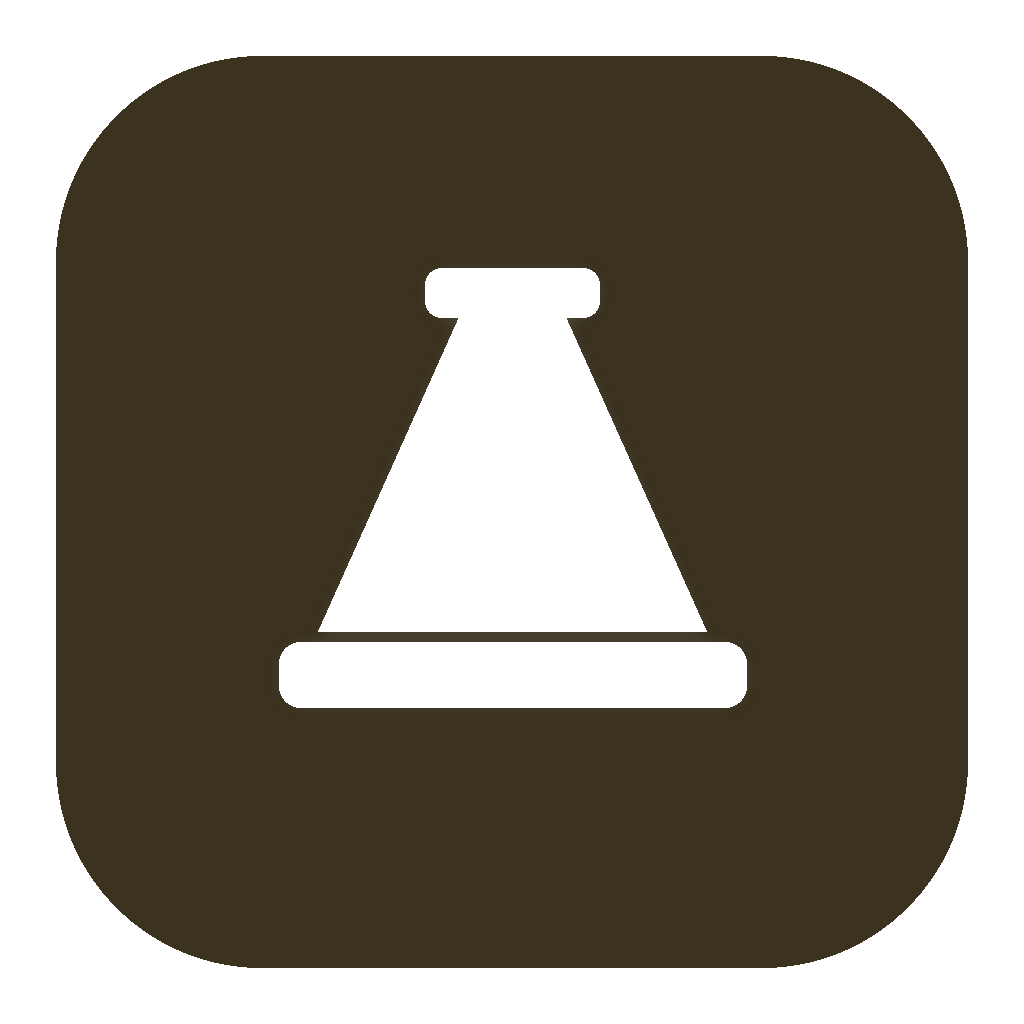
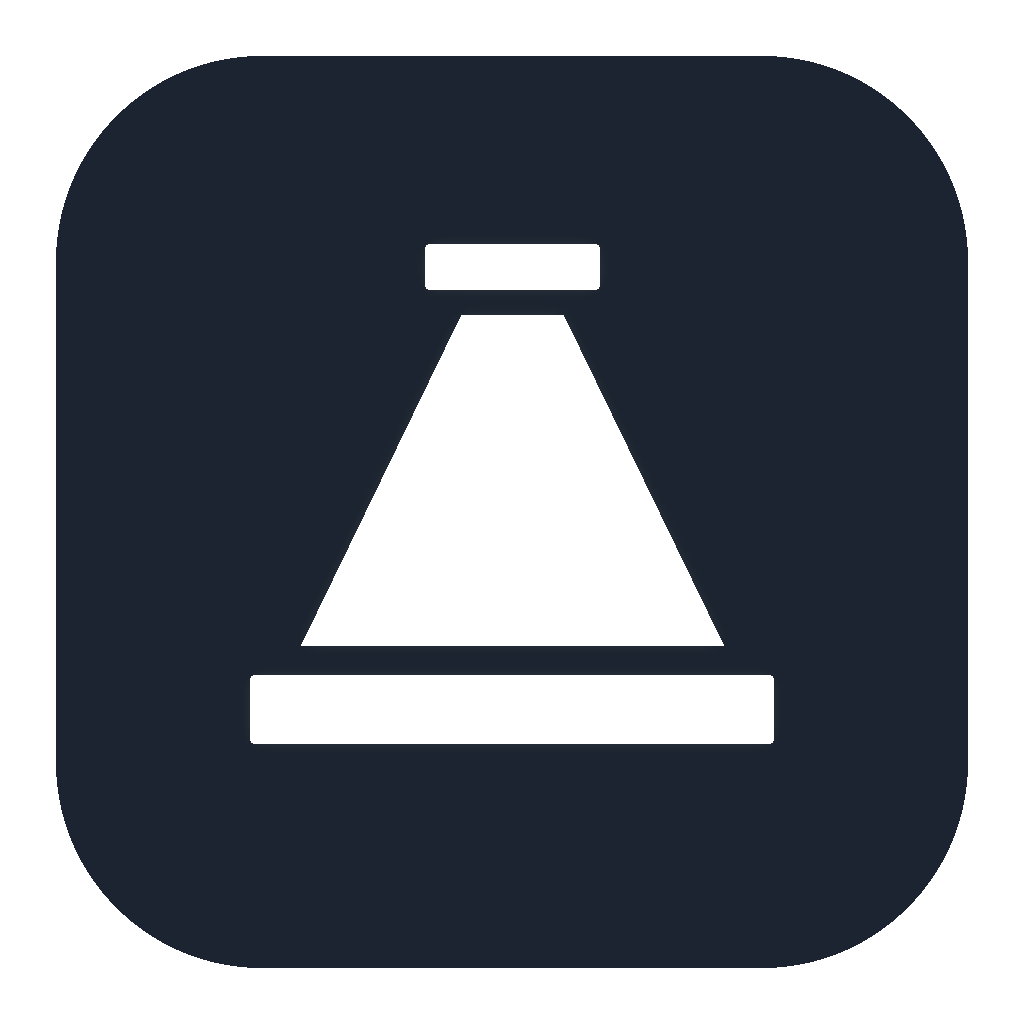
Redraw the mark: the beam disperses into the spectrum on the desk rail

diff --git a/LumenDesk/Theme.swift b/LumenDesk/Theme.swift
@@ -518,8 +518,9 @@ struct LumenDangerButtonStyle: ButtonStyle {
 
 // MARK: - Wordmark
 
-/// A beam enters a prism and leaves as the spectrum, landing on the desk rail.
-/// The mark is the product's thesis: one input, every colour, one surface.
+/// Light leaves the aperture white and lands on the desk rail as the full
+/// visible spectrum. The mark is the product's thesis: one input, every
+/// colour, one control surface.
 struct LumenMark: View {
     var size: CGFloat = 30
     var monochrome = false
@@ -529,56 +530,54 @@ struct LumenMark: View {
             let w = proxy.size.width
             let h = proxy.size.height
             ZStack {
-                // Incoming beam, entering the prism from the upper left.
-                Path { path in
-                    path.move(to: CGPoint(x: w * 0.04, y: h * 0.235))
-                    path.addLine(to: CGPoint(x: w * 0.40, y: h * 0.235))
-                    path.addLine(to: CGPoint(x: w * 0.40, y: h * 0.325))
-                    path.addLine(to: CGPoint(x: w * 0.04, y: h * 0.325))
-                    path.closeSubpath()
-                }
-                .fill(monochrome ? Color.primary : Lumen.beamBright)
+                // The source slot.
+                RoundedRectangle(cornerRadius: h * 0.02, style: .continuous)
+                    .fill(monochrome ? Color.primary : Lumen.beamBright)
+                    .frame(width: w * 0.24, height: h * 0.062)
+                    .position(x: w * 0.5, y: h * 0.178)
 
-                // The prism.
-                Path { path in
-                    path.move(to: CGPoint(x: w * 0.50, y: h * 0.09))
-                    path.addLine(to: CGPoint(x: w * 0.83, y: h * 0.62))
-                    path.addLine(to: CGPoint(x: w * 0.17, y: h * 0.62))
-                    path.closeSubpath()
-                }
-                .fill(monochrome ? AnyShapeStyle(Color.primary.opacity(0.32))
-                                 : AnyShapeStyle(Color(hex: 0xFFFFFF, alpha: 0.10)))
-                .overlay {
-                    Path { path in
-                        path.move(to: CGPoint(x: w * 0.50, y: h * 0.09))
-                        path.addLine(to: CGPoint(x: w * 0.83, y: h * 0.62))
-                        path.addLine(to: CGPoint(x: w * 0.17, y: h * 0.62))
-                        path.closeSubpath()
+                // The beam, dispersing as it falls.
+                LumenBeamShape()
+                    .fill(monochrome ? AnyShapeStyle(Color.primary) : AnyShapeStyle(Lumen.spectrum))
+                    .overlay {
+                        if !monochrome {
+                            LumenBeamShape()
+                                .fill(
+                                    LinearGradient(
+                                        stops: [
+                                            .init(color: Lumen.beamBright, location: 0),
+                                            .init(color: Lumen.beamBright, location: 0.12),
+                                            .init(color: Lumen.beamBright.opacity(0), location: 0.86)
+                                        ],
+                                        startPoint: .top,
+                                        endPoint: .bottom
+                                    )
+                                )
+                        }
                     }
-                    .stroke(monochrome ? Color.primary : Lumen.beam, lineWidth: max(1, h * 0.045))
-                }
-
-                // Dispersion: the fan of light leaving the prism.
-                if !monochrome {
-                    Path { path in
-                        path.move(to: CGPoint(x: w * 0.46, y: h * 0.62))
-                        path.addLine(to: CGPoint(x: w * 0.86, y: h * 0.62))
-                        path.addLine(to: CGPoint(x: w * 0.97, y: h * 0.80))
-                        path.addLine(to: CGPoint(x: w * 0.30, y: h * 0.80))
-                        path.closeSubpath()
-                    }
-                    .fill(Lumen.spectrum)
-                }
 
                 // The desk rail.
                 RoundedRectangle(cornerRadius: h * 0.02, style: .continuous)
                     .fill(monochrome ? Color.primary : Lumen.textPrimary)
-                    .frame(width: w * 0.86, height: h * 0.10)
-                    .position(x: w * 0.5, y: h * 0.86)
+                    .frame(width: w * 0.727, height: h * 0.094)
+                    .position(x: w * 0.5, y: h * 0.79)
             }
         }
         .frame(width: size, height: size)
         .accessibilityHidden(true)
+    }
+}
+
+/// The tapered beam, in the mark's own proportions.
+private struct LumenBeamShape: Shape {
+    func path(in rect: CGRect) -> Path {
+        var path = Path()
+        path.move(to: CGPoint(x: rect.minX + rect.width * 0.430, y: rect.minY + rect.height * 0.244))
+        path.addLine(to: CGPoint(x: rect.minX + rect.width * 0.570, y: rect.minY + rect.height * 0.244))
+        path.addLine(to: CGPoint(x: rect.minX + rect.width * 0.793, y: rect.minY + rect.height * 0.703))
+        path.addLine(to: CGPoint(x: rect.minX + rect.width * 0.207, y: rect.minY + rect.height * 0.703))
+        path.closeSubpath()
+        return path
     }
 }
 

diff --git a/scripts/generate_brand_assets.py b/scripts/generate_brand_assets.py
@@ -1,5 +1,10 @@
 #!/usr/bin/env python3
-"""Generate the LumenDesk Lighting Desk app-icon family.
+"""Generate the LumenDesk Spectral Bench app-icon family.
+
+The mark keeps the geometry LumenDesk has always had — a source slot, a beam
+widening onto a desk rail — and changes what the beam is made of. Light leaves
+the aperture white and lands on the desk as the full visible spectrum: one
+input, every colour, one control surface.
 
 The small macOS sizes use hand-tuned geometry instead of mechanically shrinking
 one 1024 px source. Run from the repository root with Pillow installed.
@@ -8,8 +13,8 @@ one 1024 px source. Run from the repository root with Pillow installed.
 from __future__ import annotations
 
 import json
-import math
 from pathlib import Path
+
 from PIL import Image, ImageDraw, ImageFilter
 
 ROOT = Path(__file__).resolve().parents[1]
@@ -19,29 +24,29 @@ REPO = BRAND / "Repository"
 OPTIONAL = BRAND / "AppIcons" / "OptionalAppearances"
 
 COLORS = {
-    "black": "#0B0C0A",
-    "graphite": "#191B17",
-    "ivory": "#F1EFE8",
-    "amber": "#E7B35A",
-    "amber_light": "#FFD68A",
-    "copper": "#C97852",
-    "cyan": "#73B4BD",
-    "green": "#83B67A",
+    "void": "#04060A",
+    "ink": "#080B11",
+    "beam": "#F6FAFF",
+    "rail": "#E8EEF7",
 }
 
+# The dispersion ramp, short wavelength first. These are the same eight samples
+# the app uses for every semantic colour in the interface.
+SPECTRUM = ["#6C4BF0", "#3D7BF5", "#21C4DE", "#46D08A",
+            "#D9D45F", "#FFB13D", "#FF7A38", "#F1495C"]
+
 MASTER = {
-    "beam": [(440, 246), (584, 246), (788, 700), (236, 700)],
-    "slot": (388, 184, 248, 70),
-    "desk": (180, 716, 664, 92),
-    "nodes": [(449, 752, 24), (500, 752, 24), (551, 752, 24)],
+    "slot": (388, 150, 248, 64),
+    "beam": [(440, 250), (584, 250), (812, 720), (212, 720)],
+    "rail": (140, 762, 744, 96),
 }
 
 MICRO = {
-    16: {"beam": [(7,4),(9,4),(12,11),(4,11)], "slot": (6,3,4,1), "desk": (3,12,10,2), "nodes": [(7,12),(8,12),(9,12)]},
-    24: {"beam": [(10,6),(14,6),(19,17),(5,17)], "slot": (9,4,6,2), "desk": (4,18,16,3), "nodes": [(10,19),(12,19),(14,19)]},
-    32: {"beam": [(14,8),(18,8),(24,22),(8,22)], "slot": (12,6,8,2), "desk": (6,23,20,3), "nodes": [(13,24),(16,24),(19,24)]},
-    48: {"beam": [(20,12),(28,12),(37,33),(11,33)], "slot": (18,9,12,3), "desk": (9,35,30,5), "nodes": [(20,37),(24,37),(28,37)]},
-    64: {"beam": [(27,15),(37,15),(49,43),(15,43)], "slot": (24,11,16,5), "desk": (11,45,42,7), "nodes": [(26,48),(32,48),(38,48)]},
+    16: {"slot": (6, 3, 4, 1), "beam": [(7, 4), (9, 4), (12, 11), (4, 11)], "rail": (3, 12, 10, 2)},
+    24: {"slot": (9, 4, 6, 2), "beam": [(10, 6), (14, 6), (19, 17), (5, 17)], "rail": (4, 18, 16, 3)},
+    32: {"slot": (12, 6, 8, 2), "beam": [(14, 8), (18, 8), (24, 22), (8, 22)], "rail": (6, 23, 20, 3)},
+    48: {"slot": (18, 9, 12, 3), "beam": [(20, 12), (28, 12), (37, 33), (11, 33)], "rail": (9, 35, 30, 5)},
+    64: {"slot": (24, 11, 16, 5), "beam": [(27, 15), (37, 15), (49, 43), (15, 43)], "rail": (11, 45, 42, 7)},
 }
 
 
@@ -50,58 +55,85 @@ def rgb(value: str) -> tuple[int, int, int]:
     return tuple(int(value[index:index + 2], 16) for index in (0, 2, 4))
 
 
-def gradient(size: int, points, top: str, bottom: str) -> Image.Image:
+def spectrum_at(t: float) -> tuple[int, int, int]:
+    """Sample the dispersion ramp, interpolating between stops."""
+    t = min(1.0, max(0.0, t))
+    span = (len(SPECTRUM) - 1) * t
+    low = int(span)
+    high = min(low + 1, len(SPECTRUM) - 1)
+    local = span - low
+    start, end = rgb(SPECTRUM[low]), rgb(SPECTRUM[high])
+    return tuple(round(start[i] + (end[i] - start[i]) * local) for i in range(3))
+
+
+def dispersing_beam(size: int, points) -> Image.Image:
+    """The beam: white where it leaves the aperture, dispersed where it lands.
+
+    Colour runs across the beam and saturation runs down it, so the mark reads
+    as light separating rather than as a gradient applied to a shape.
+    """
     mask = Image.new("L", (size, size), 0)
     ImageDraw.Draw(mask).polygon(points, fill=255)
+
+    xs = [point[0] for point in points]
+    ys = [point[1] for point in points]
+    left, right = min(xs), max(xs)
+    top, bottom = min(ys), max(ys)
+    width = max(1, right - left)
+    height = max(1, bottom - top)
+    white = rgb(COLORS["beam"])
+
     image = Image.new("RGBA", (size, size), (0, 0, 0, 0))
-    start, end = rgb(top), rgb(bottom)
     draw = ImageDraw.Draw(image)
     for y in range(size):
-        t = y / max(1, size - 1)
-        color = tuple(round(start[i] + (end[i] - start[i]) * t) for i in range(3)) + (255,)
-        draw.line((0, y, size, y), fill=color)
+        fall = min(1.0, max(0.0, (y - top) / height))
+        # Hold the beam white briefly, then let it separate.
+        mix = min(1.0, max(0.0, (fall - 0.12) / 0.75))
+        for x in range(left, right + 1):
+            hue = spectrum_at((x - left) / width)
+            colour = tuple(round(white[i] + (hue[i] - white[i]) * mix) for i in range(3))
+            draw.point((x, y), fill=colour + (255,))
     image.putalpha(mask)
     return image
 
 
 def scaled_master(size: int, monochrome: bool = False) -> Image.Image:
     scale = size / 1024
+
+    def s(value):
+        return round(value * scale)
+
     image = Image.new("RGBA", (size, size), (0, 0, 0, 0))
-    beam = [(round(x * scale), round(y * scale)) for x, y in MASTER["beam"]]
-    slot = tuple(round(value * scale) for value in MASTER["slot"])
-    desk = tuple(round(value * scale) for value in MASTER["desk"])
+    beam = [(s(x), s(y)) for x, y in MASTER["beam"]]
+    sx, sy, sw, sh = (s(value) for value in MASTER["slot"])
+    rx, ry, rw, rh = (s(value) for value in MASTER["rail"])
+
     if monochrome:
         draw = ImageDraw.Draw(image)
         draw.polygon(beam, fill="white")
-        for x, y, w, h in (slot, desk):
-            draw.rounded_rectangle((x, y, x + w, y + h), radius=max(1, h // 3), fill="white")
-        return image
-    image.alpha_composite(gradient(size, beam, COLORS["amber_light"], COLORS["amber"]))
+    else:
+        image.alpha_composite(dispersing_beam(size, beam))
+
     draw = ImageDraw.Draw(image)
-    for x, y, w, h in (slot, desk):
-        draw.rounded_rectangle((x, y, x + w, y + h), radius=max(1, h // 3), fill=COLORS["ivory"])
-    for (x, y, diameter), color in zip(MASTER["nodes"], (COLORS["cyan"], COLORS["amber"], COLORS["green"])):
-        left, top, d = round(x * scale), round(y * scale), max(2, round(diameter * scale))
-        draw.ellipse((left, top, left + d, top + d), fill=color)
+    face = "white" if monochrome else COLORS["beam"]
+    draw.rounded_rectangle((sx, sy, sx + sw, sy + sh), radius=max(1, s(6)), fill=face)
+    draw.rounded_rectangle((rx, ry, rx + rw, ry + rh), radius=max(1, s(6)),
+                           fill="white" if monochrome else COLORS["rail"])
     return image
 
 
 def micro_mark(size: int, monochrome: bool = False) -> Image.Image:
     spec = MICRO[size]
     image = Image.new("RGBA", (size, size), (0, 0, 0, 0))
-    draw = ImageDraw.Draw(image)
     if monochrome:
-        draw.polygon(spec["beam"], fill="white")
-        for key in ("slot", "desk"):
-            x, y, w, h = spec[key]
-            draw.rectangle((x, y, x+w-1, y+h-1), fill="white")
-        return image
-    image.alpha_composite(gradient(size, spec["beam"], COLORS["amber_light"], COLORS["amber"]))
-    for key in ("slot", "desk"):
+        ImageDraw.Draw(image).polygon(spec["beam"], fill="white")
+    else:
+        image.alpha_composite(dispersing_beam(size, spec["beam"]))
+    draw = ImageDraw.Draw(image)
+    for key in ("slot", "rail"):
         x, y, w, h = spec[key]
-        draw.rectangle((x, y, x+w-1, y+h-1), fill=COLORS["ivory"])
-    for (x, y), color in zip(spec["nodes"], (COLORS["cyan"], COLORS["amber"], COLORS["green"])):
-        draw.point((x, y), fill=color)
+        draw.rectangle((x, y, x + w - 1, y + h - 1),
+                       fill="white" if monochrome else COLORS["beam"])
     return image
 
 
@@ -115,7 +147,7 @@ def app_icon(size: int, platform: str, appearance: str = "default") -> Image.Ima
     supersample = 4 if size <= 64 else 1
     canvas_size = size * supersample
     if platform == "ios":
-        canvas = Image.new("RGBA", (canvas_size, canvas_size), rgb("#3B321F" if appearance == "tinted" else COLORS["black"]) + (255,))
+        canvas = Image.new("RGBA", (canvas_size, canvas_size), rgb("#1B2430" if appearance == "tinted" else COLORS["void"]) + (255,))
         tile_origin = (0, 0)
         tile_size = canvas_size
     else:
@@ -123,7 +155,7 @@ def app_icon(size: int, platform: str, appearance: str = "default") -> Image.Ima
         inset = round(canvas_size * 0.055)
         tile_size = canvas_size - inset * 2
         tile_origin = (inset, inset)
-        tile = Image.new("RGBA", (tile_size, tile_size), rgb("#3B321F" if appearance == "tinted" else COLORS["black"]) + (255,))
+        tile = Image.new("RGBA", (tile_size, tile_size), rgb("#1B2430" if appearance == "tinted" else COLORS["void"]) + (255,))
         tile.putalpha(rounded_mask(tile_size))
         canvas.alpha_composite(tile, tile_origin)
     mark_size = round(tile_size * 0.79)
@@ -134,7 +166,7 @@ def app_icon(size: int, platform: str, appearance: str = "default") -> Image.Ima
     else:
         mark = scaled_master(mark_size, monochrome)
     if appearance == "dark":
-        overlay = Image.new("RGBA", canvas.size, (18, 20, 15, 32))
+        overlay = Image.new("RGBA", canvas.size, (4, 6, 10, 32))
         canvas.alpha_composite(overlay)
     x = tile_origin[0] + (tile_size - mark_size) // 2
     y = tile_origin[1] + round(tile_size * 0.47 - mark_size * 0.48)
